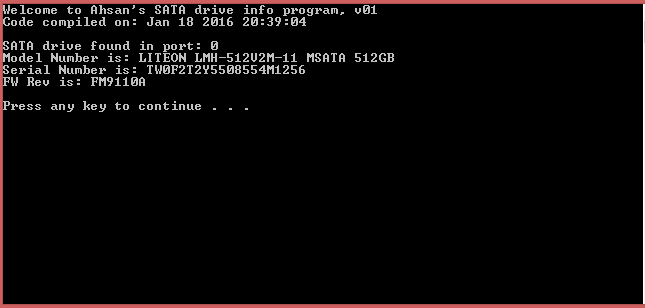
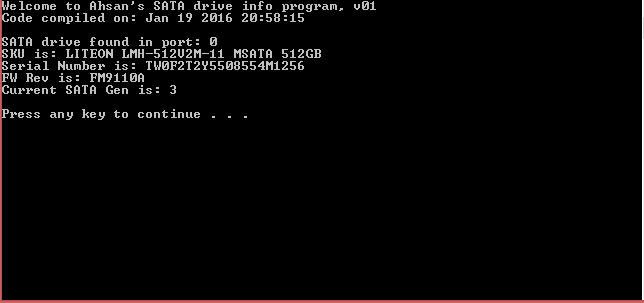
Added current SATA Gen Speed feature, debug code for status register print, updated snapshot of the app.

Changed region(s): [[0.0, 0.1188, 0.6211, 0.4158], [0.0, 0.0, 1.0, 0.0891], [0.0, 0.9802, 1.0, 1.0]]

diff --git a/SATADriverDev/Main.cpp b/SATADriverDev/Main.cpp
@@ -22,6 +22,9 @@
 //Local Defines
 #define VERSION 01
 #define MAX_DEVICE 32
+#define TIME_OUT 20		//20 seconds T/O
+
+//Local Pre Processors
 //#define DEBUG_PRINTS
 
 
@@ -79,7 +82,7 @@ int main() {
 	ATA_Buffer->Length = sizeof(ATA_PASS_THROUGH_EX);
 	ATA_Buffer->DataBufferOffset = sizeof(ATA_PASS_THROUGH_EX);
 	ATA_Buffer->DataTransferLength = sizeof(IDENTIFY_DEVICE_DATA);
-	ATA_Buffer->TimeOutValue = 10;
+	ATA_Buffer->TimeOutValue = TIME_OUT;
 	ATA_Buffer->CurrentTaskFile[6] = ID_CMD;
 
 	BOOL ret = DeviceIoControl(	Sata_Drive,
@@ -90,13 +93,17 @@ int main() {
 								NULL
 								);
 
+#if defined DEBUG_PRINTS
+	printf("Status register of last SATA CMD: 0x%02x\n", ATA_Buffer->CurrentTaskFile[6]);
+#endif
+
 	CloseHandle(Sata_Drive);
 
 	IDENTIFY_DEVICE_DATA *IDFY_Buffer;
 
 	IDFY_Buffer = (IDENTIFY_DEVICE_DATA *)(int(Buffer) + sizeof(ATA_PASS_THROUGH_EX));
 
-	printf("Model Number is: ");
+	printf("SKU is: ");
 	sorted_print((IDFY_Buffer->ModelNumber), 40);
 	printf("\n");
 
@@ -107,8 +114,10 @@ int main() {
 	printf("FW Rev is: ");
 	sorted_print((IDFY_Buffer->FirmwareRevision), 8);
 	printf("\n");
-	
+
+	printf("Current SATA Gen is: %d\n", IDFY_Buffer->SerialAtaCapabilities.CurrentSpeed);
+		
 	printf("\n");
-	
+
 	return 0;
 }

diff --git a/README.md b/README.md
@@ -1,7 +1,7 @@
 # SATADriver
 Basic SATA application to check SATA drive information
 
-Run the compiled exe file from CMD as admin and it will display the model number, serial number and the firmwre rev of the SATA drive that is located at the first port in the SATA HBA.  
+Run the compiled exe file from CMD as admin and it will display the SKU, serial number, firmwre rev and the current SATA Gen speed of the SATA drive that is located at the first port in the SATA HBA.  
 
 Screenshot of the app:
 
